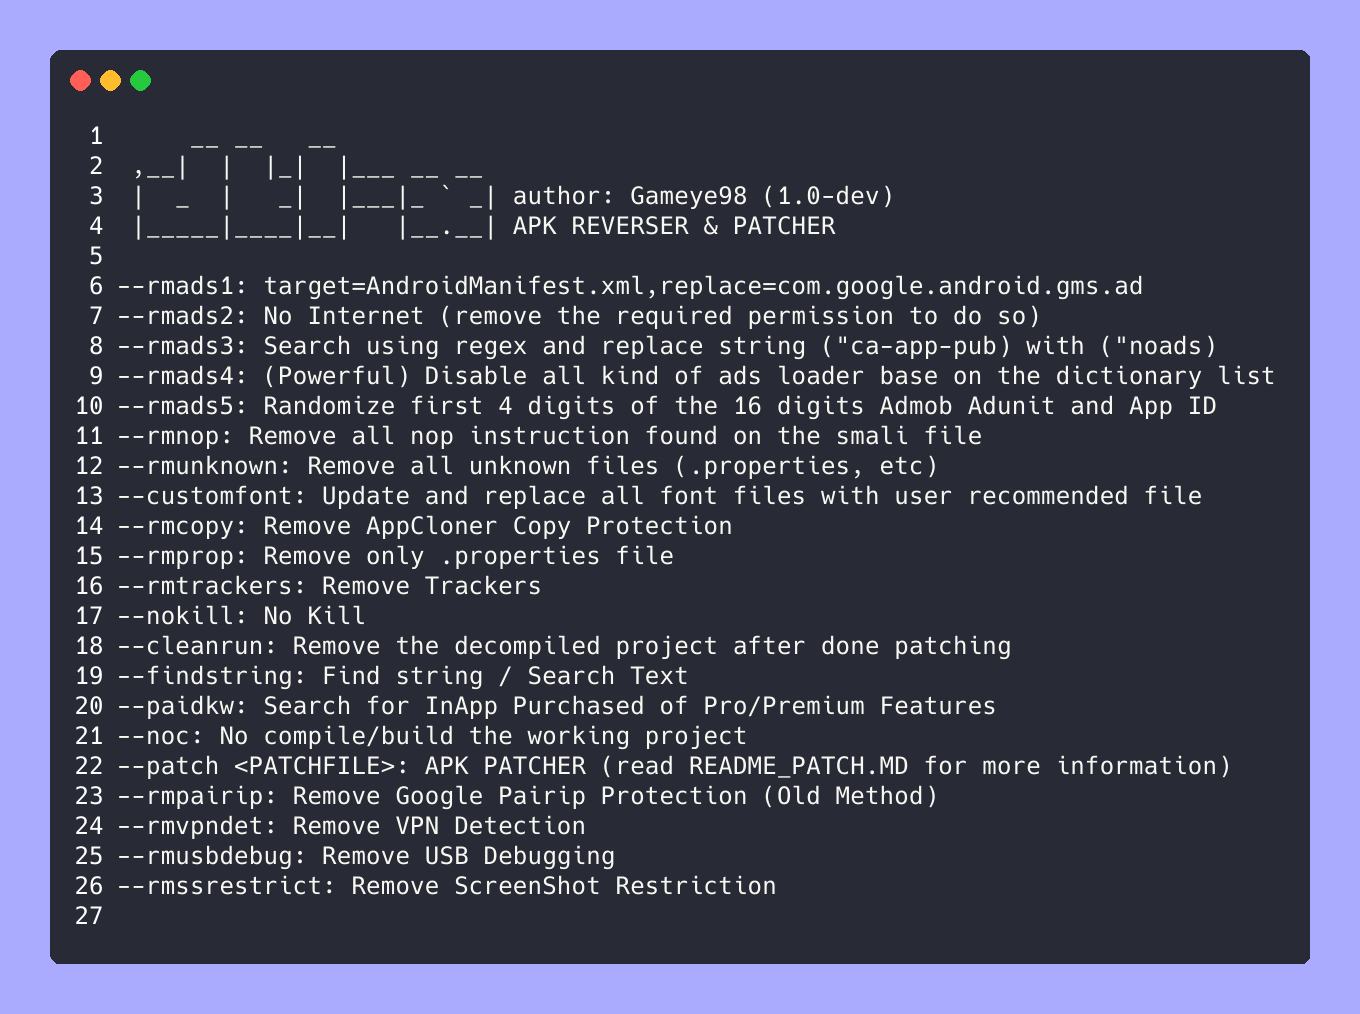
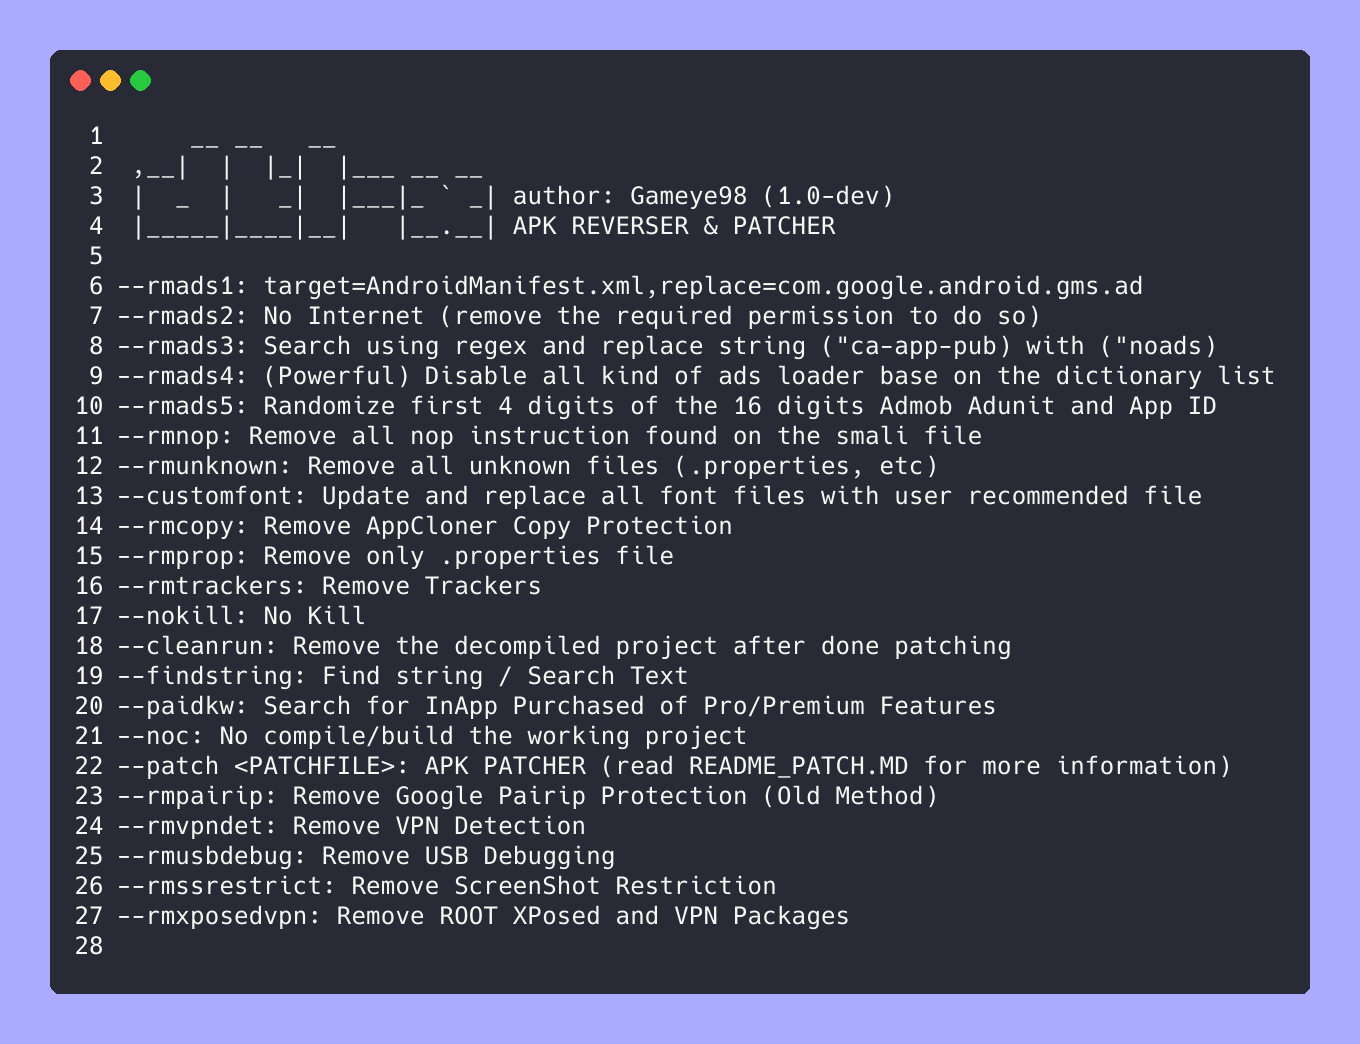
added root xposed and vpn packages removal

diff --git a/dtlx.py b/dtlx.py
@@ -117,6 +117,7 @@ class patcher:
 			elif args_iter=="rmvpndet":self.removeSmaliByRegex(regex_for_vpn_detection)
 			elif args_iter=="rmusbdebug":self.removeSmaliByRegex(regex_for_usb_debugging)
 			elif args_iter=="rmssrestrict":self.removeSmaliByRegex(regex_for_screenshot_restriction_removal)
+			elif args_iter=="rmrootxposedvpn":self.removeSmaliByRegex(regex_for_root_xposed_and_vpn_removal)
 		# Compile Project
 		if self.iscompile:
 			if os.path.isdir(f"{self.fout}/resources"):
@@ -1017,6 +1018,7 @@ helpbanner = """     __ __   __
 --rmvpndet: Remove VPN Detection
 --rmusbdebug: Remove USB Debugging
 --rmssrestrict: Remove ScreenShot Restriction
+--rmxposedvpn: Remove ROOT XPosed and VPN Packages
 """
 
 mainbanner = """                                                  
@@ -1034,6 +1036,12 @@ mainbanner = """
 \x1b[1;41;93mAPK REVERSER & PATCHER - author by Gameye98 (BHSec)\x1b[0m
 """
 
+regex_for_root_xposed_and_vpn_removal = [
+	[
+		r'const-string (.*), "(com.koushikdutta.rommanager.license|com.ramdroid.appquarantinepro|com.noshufou.android.su.elite|com.zhiqupk.root.global|com.alephzain.framaroot|com.noshufou.android.su|com.noshufou.android.su.elite|eu.chainfire.supersu|com.thirdparty.superuser|com.koushikdutta.superuser|com.kingo.root|com.yellowes.su|com.topjohnwu.magisk|com.kingroot.kinguser|com.smedialink.oneclickroot|com.charles.lpoqasert|catch_.me_.if_.you_.can_|com.koushikdutta.rommanager|com.dimonvideo.luckypatcher|com.koushikdutta.rommanager.license|com.chelpus.lackypatch|com.ramdroid.appquarantine|supersu|com.ramdroid.appquarantinepro|com.android.vending.billing.InAppBillingService.COIN|com.android.vending.billing.InAppBillingService.LUCK|com.chelpus.luckypatcher|com.blackmartalpha|org.blackmart.market|com.allinone.free|com.repodroid.app|org.creeplays.hack|com.baseappfull.fwd|com.zmapp|com.dv.marketmod.installer|org.mobilism.android|com.android.wp.net.log|com.android.camera.update|cc.madkite.freedom|com.solohsu.android.edxp.manager|org.meowcat.edxposed.manager|com.xmodgame|com.cih.game_cih|/su/bin/|/system/usr/we-need-root/|/system/bin/failsafe/su|/data/local/su|/su/bin/su|/system/sd/xbin/su|/data/local/bin/su|/sbin/su|/data/local/xbin/su|magisk|/system/bin/su|/system/xbin/su|/system/app/Superuser.apk|/system/app/SuperSU.apk|/su/bin/su|com.guoshi.httpcanary|app.greyshirts.sslcapture|com.guoshi.httpcanary.premium|com.minhui.networkcapture|com.minhui.networkcapture.pro|com.egorovandreyrm.pcapremote|com.packagesniffer.frtparlak|jp.co.taosoftware.android.packetcapture|com.emanuelef.remote_capture|com.minhui.wifianalyzer|com.evbadroid.proxymon|com.evbadroid.wicapdemo|com.evbadroid.wicap|com.luckypatchers.luckypatcherinstaller|ru.UbLBBRLf.jSziIaUjL|me.weishu.kernelsu|com.topjohnwu.magisk|com.ramdroid.appquarantine|com.zachspong.temprootremovejb|com.koushikdutta.superuser|com.noshufou.android.su|eu.chainfire.supersu|/su/bin/su|com.minhui.networkcapture.pro|com.guoshi.httpcanary.premium|/data/local/tmp/frida-server|/data/local/tmp/frida-server|de.robv.android.xposed.installer|/su/bin/su|.thirdparty.superuser|.koushikdutta.superuser|.ramdroid.appquarantine|devadvance.rootcloak|.robv.android.xposed.installer|.saurik.substrate|.devadvance.rootcloakplus|.zachspong.temprootremovejb|.amphoras.hidemyroot|.formyhm.hideroot|.chelpus.lackypatch|.dimonvideo.luckypatcher|.koushikdutta.rommanager|.devadvance.rootcloakplus|/system/app/Superuser.apk|/system/xbin/which|com.phoneinfo.changerpro|com.VTechno.androididchanger|com.vivek.imeichanger|com.device.emulator|com.phoneinfo.changer|com.formyhm.hideroot|com.formyhm.hiderootPremium|com.amphoras.hidemyrootadfree|com.amphoras.hidemyroot|com.zachspong.temprootremovejb|com.saurik.substrate|com.devadvance.rootcloak|com.devadvance.rootcloakplus|com.chelpus.luckypatcher|com.ramdroid.appquarantine|com.ramdroid.appquarantinepro|com.joeykrim.rootcheck|/magisk/.core/bin/su|/system/xbin/busybox|/system/etc/init.d/99SuperSUDaemon|/dev/com.koushikdutta.superuser.daemon|/system/xbin/daemonsu|net.csu333.surrogate|fi.razerman.bancontactrootbypasser|me.phh.superuser|com.kingouser.com|/system/sd/xbin/|/system/bin/failsafe/|/sbin/|busybox|/system/app/Superuser|/system/app/SuperSU).*"'
+		r'const-string \1, ""'
+	]
+]
 regex_for_screenshot_restriction_removal = [
 	[
 		r'const/16 ([pv]\d+), 0x2000\n\n    invoke-virtual \{([pv]\d+), ([pv]\d+), ([pv]\d+)\}, Landroid/view/Window;->setFlags\(II\)V'
@@ -1375,6 +1383,8 @@ def main():
 				funcls.append("rmusbdebug")
 			elif px == "--rmssrestrict":
 				funcls.append("rmssrestrict")
+			elif px == "--rmxposedvpn":
+				funcls.append("rmrootxposedvpn")
 		if ispatch:
 			if not os.path.isfile(patchfile):
 				print(f"\x1b[1;41;93m[!] dtlx: '{patchfile}': No such file exists\x1b[0m")

diff --git a/README.md b/README.md
@@ -54,6 +54,7 @@ If you are interested in reversing or patching Android applications, then I reco
 --rmvpndet: Remove VPN Detection  
 --rmusbdebug: Remove USB Debugging  
 --rmssrestrict: Remove Screenshot Restriction  
+--rmxposedvpn: Remove ROOT XPosed and VPN Packages  
 ```
 
 **• note 1: remove any whitespace found on the apk file name before patching**  
